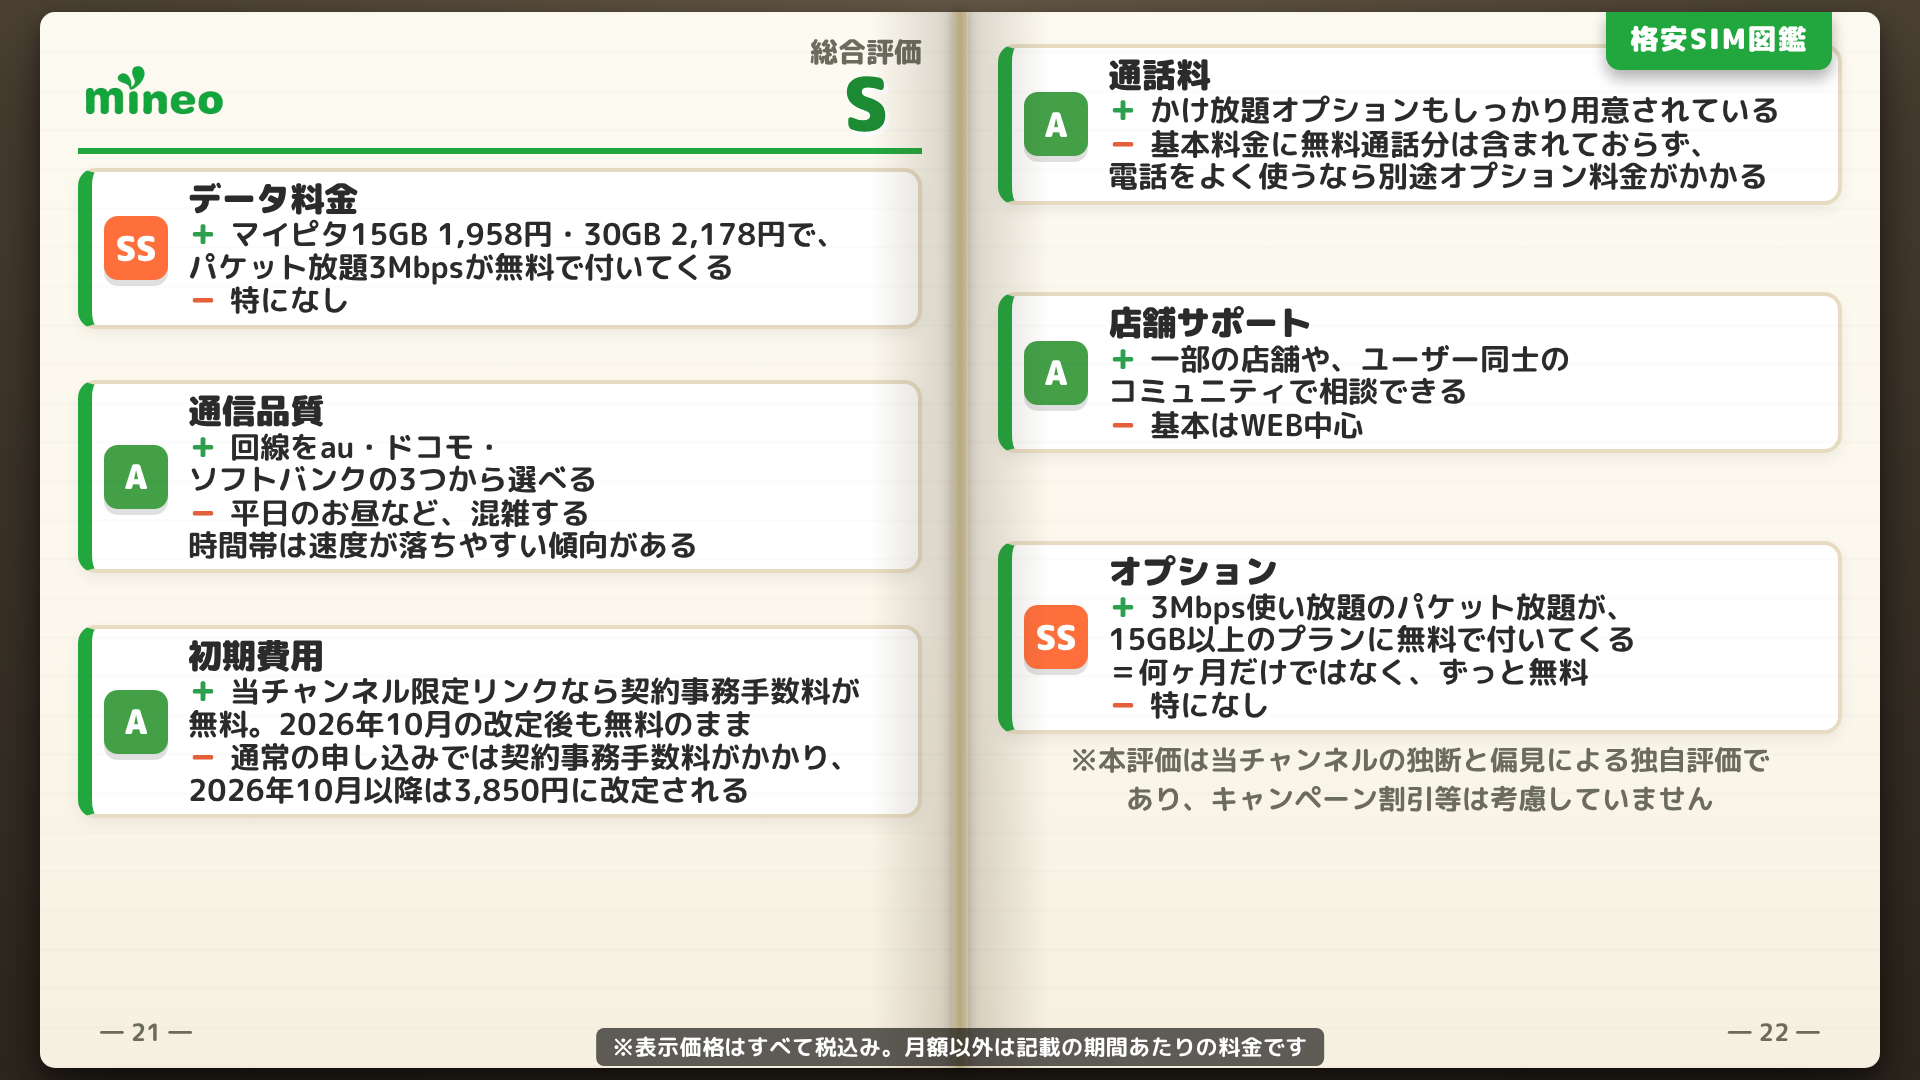
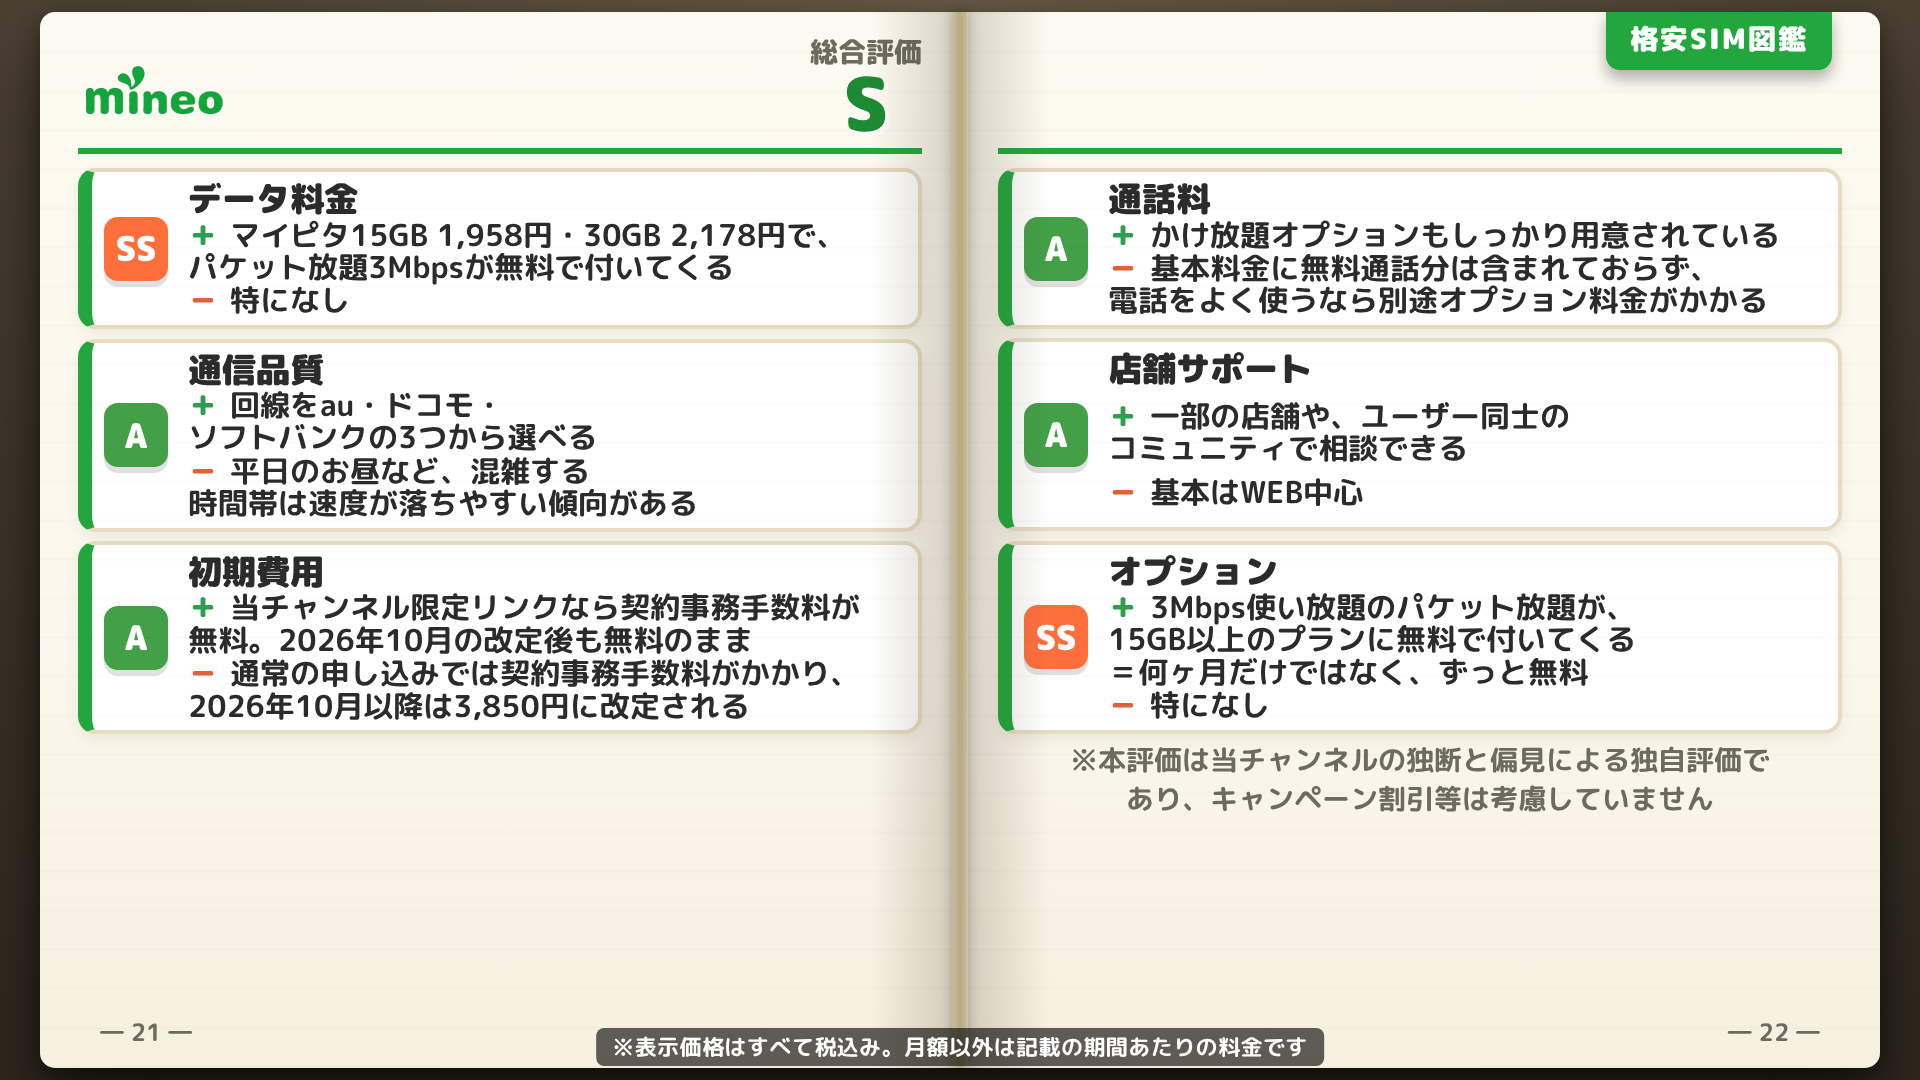
スライド改修

diff --git a/slides.html b/slides.html
@@ -689,6 +689,23 @@
       margin-top: 6px
     }
 
+    /* 評価見開き: 左右のカードの上下位置・高さを揃える。
+       右ページは左と同じ高さの見出し帯（空の head-right eval-head）を置き、
+       左ページは右の eval-note（78px＋上余白6px）ぶん下を空けて
+       カード領域を左右で同寸にし、各行は左右で高いほうに合わせる。 */
+    .eval-page.left .cards {
+      margin-bottom: 84px
+    }
+
+    .three-cards .eval-card:nth-child(1) {
+      min-height: 161px
+    }
+
+    .three-cards .eval-card:nth-child(2),
+    .three-cards .eval-card:nth-child(3) {
+      min-height: 193px
+    }
+
     .cta-visual img {
       max-height: 650px
     }
@@ -1337,6 +1354,7 @@
         </div><span class="page-no">― 21 ―</span>
       </div>
       <div class="page right eval-page"><span class="index-tab">格安SIM図鑑</span>
+        <div class="head-right eval-head"></div>
         <div class="cards three-cards">
           <div class="card eval-card">
             <div class="rank A">A</div>
@@ -1386,7 +1404,7 @@
         <div class="head-left japan-logo"><img class="logo" src="public/images/logo/nihon_tsushin.jpg" alt="日本通信SIM">
         </div>
         <div class="page-body center japan-page">
-          <div class="emph"><span class="big">通話込み</span><br>5分かけ放題 または 70分無料通話</div>
+          <div class="emph"><span class="big">通話込み</span><br>5分かけ放題 または <br>70分無料通話</div>
           <div class="lead centered">プラン料金にずっと含まれる</div>
         </div><span class="page-no">― 23 ―</span>
       </div>
@@ -1414,7 +1432,7 @@
               </tr>
             </tbody>
           </table>
-          <div class="note centered-note">単体なら月390円｜無料期間ではなく、ずっと込み</div>
+          <div class="note centered-note">単体なら月390円｜無料期間はなく、ずっと込み</div>
         </div><span class="page-no">― 24 ―</span>
       </div>
     </div>
@@ -1458,7 +1476,7 @@
         <div class="page-body summary-page">
           <ul class="rows">
             <li><span class="badge">3</span>
-              <div class="tx">判断基準は「実際に使っているか」だけ<span class="sub">実際に使っているかで決める</span></div>
+              <div class="tx">判断基準は「実際に使っているか」だけ<span class="sub">シンプルに考える</span></div>
             </li>
             <li><span class="badge">4</span>
               <div class="tx">申し込んだ日に、カレンダーへ「オプションを解約する」を登録<span class="sub">無料終了前に見直す予定を入れる</span></div>
@@ -1520,9 +1538,9 @@
         <div class="page-head">投稿時点の情報です</div>
         <div class="page-body center">
           <div class="warn posting-warn"><span class="ic"><i
-                class="fa-solid fa-triangle-exclamation"></i></span>※料金・オプション情報は動画投稿時点のものです。お申し込み前に必ず各社公式サイトの最新情報をご確認ください。
+                class="fa-solid fa-triangle-exclamation"></i></span>※料金・オプション情報は動画投稿時点のものです。
           </div>
-          <div class="lead centered">申し込み前に<br><span class="em">各社公式サイト</span>で確認</div>
+          <div class="lead centered">申し込み前に必ず<br><span class="em">各社公式サイト</span>を確認</div>
         </div>
       </div>
     </div>
